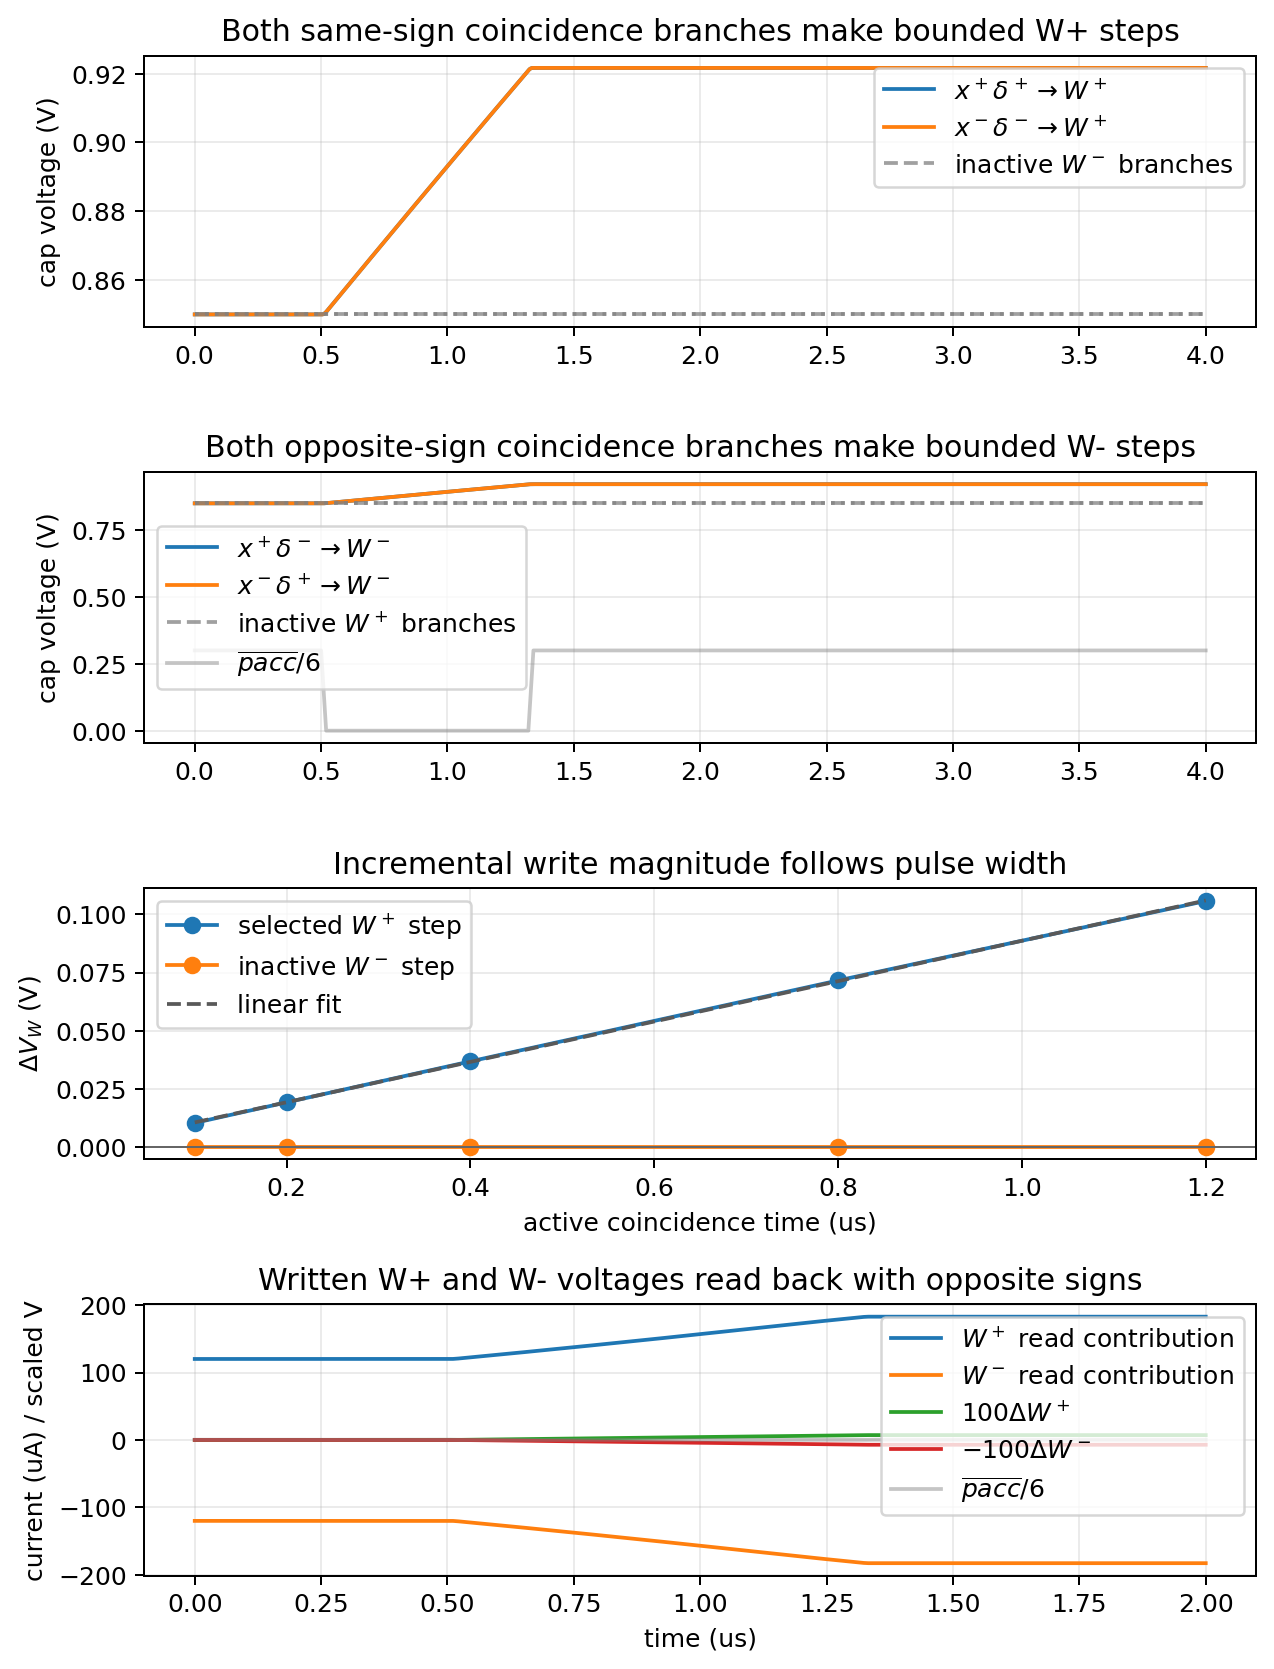
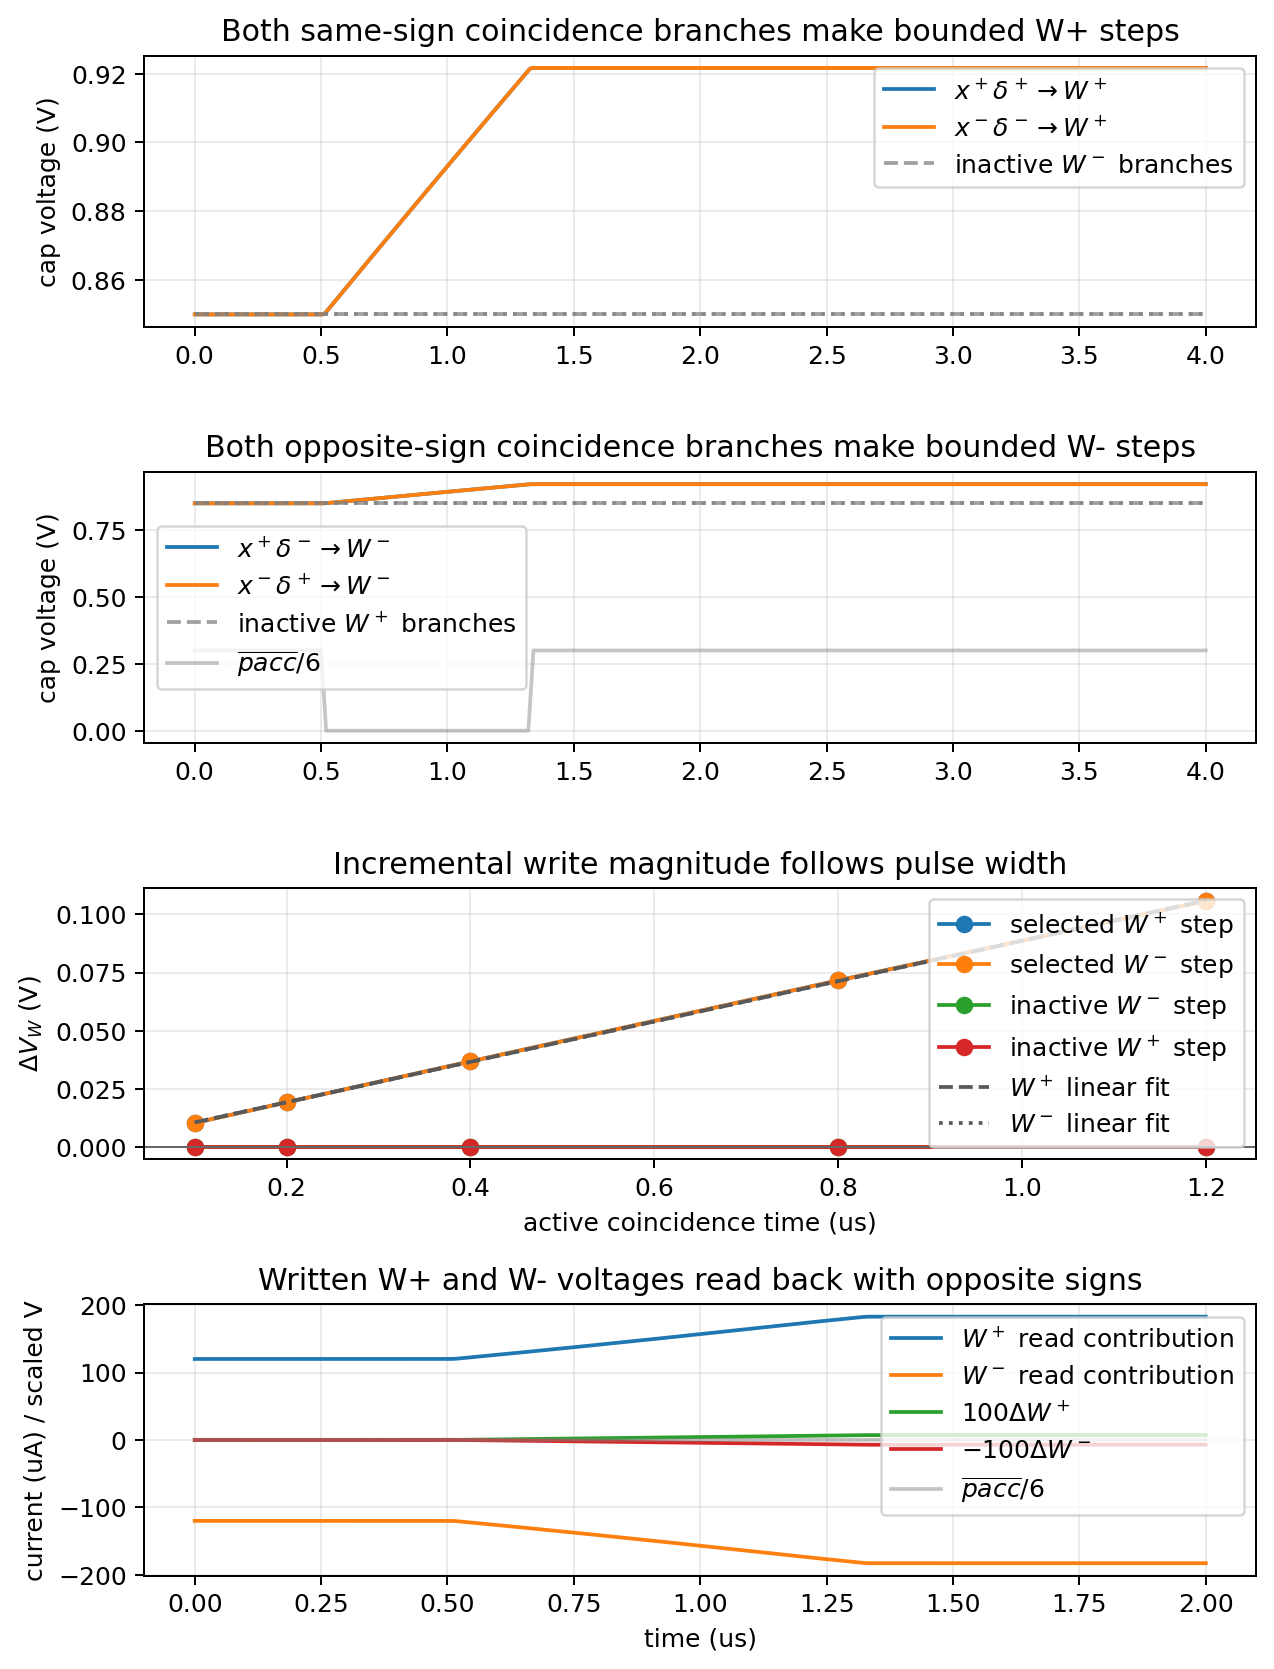
Sweep both MOS writer rails by pulse width

diff --git a/spice/run_mos_cell_characterization.py b/spice/run_mos_cell_characterization.py
@@ -627,17 +627,25 @@ quit
         sweep_devices.append(
             f"""
 VPACC{idx} paccn{idx} 0 PULSE(1.8 0 0.5u 20n 20n {width}u 5.0u)
-CWP{idx} wp{idx} 0 {{CWRITE}} IC=0.85
-CWM{idx} wm{idx} 0 {{CWRITE}} IC=0.85
-MWP{idx}A vdd paccn{idx} n1_{idx} vdd PMOS L={{LCH}} W={{WWRITE}}
-MWP{idx}B n1_{idx} lo n2_{idx} vdd PMOS L={{LCH}} W={{WWRITE}}
-MWP{idx}C n2_{idx} lo wp{idx} vdd PMOS L={{LCH}} W={{WWRITE}}
-MWM{idx}A vdd paccn{idx} n3_{idx} vdd PMOS L={{LCH}} W={{WWRITE}}
-MWM{idx}B n3_{idx} lo n4_{idx} vdd PMOS L={{LCH}} W={{WWRITE}}
-MWM{idx}C n4_{idx} hi wm{idx} vdd PMOS L={{LCH}} W={{WWRITE}}
+CWP_P{idx} wp_p{idx} 0 {{CWRITE}} IC=0.85
+CWM_P{idx} wm_p{idx} 0 {{CWRITE}} IC=0.85
+MWPP{idx}A vdd paccn{idx} n1p_{idx} vdd PMOS L={{LCH}} W={{WWRITE}}
+MWPP{idx}B n1p_{idx} lo n2p_{idx} vdd PMOS L={{LCH}} W={{WWRITE}}
+MWPP{idx}C n2p_{idx} lo wp_p{idx} vdd PMOS L={{LCH}} W={{WWRITE}}
+MWPM{idx}A vdd paccn{idx} n3p_{idx} vdd PMOS L={{LCH}} W={{WWRITE}}
+MWPM{idx}B n3p_{idx} lo n4p_{idx} vdd PMOS L={{LCH}} W={{WWRITE}}
+MWPM{idx}C n4p_{idx} hi wm_p{idx} vdd PMOS L={{LCH}} W={{WWRITE}}
+CWP_N{idx} wp_n{idx} 0 {{CWRITE}} IC=0.85
+CWM_N{idx} wm_n{idx} 0 {{CWRITE}} IC=0.85
+MWNP{idx}A vdd paccn{idx} n1n_{idx} vdd PMOS L={{LCH}} W={{WWRITE}}
+MWNP{idx}B n1n_{idx} lo n2n_{idx} vdd PMOS L={{LCH}} W={{WWRITE}}
+MWNP{idx}C n2n_{idx} hi wp_n{idx} vdd PMOS L={{LCH}} W={{WWRITE}}
+MWNM{idx}A vdd paccn{idx} n3n_{idx} vdd PMOS L={{LCH}} W={{WWRITE}}
+MWNM{idx}B n3n_{idx} lo n4n_{idx} vdd PMOS L={{LCH}} W={{WWRITE}}
+MWNM{idx}C n4n_{idx} lo wm_n{idx} vdd PMOS L={{LCH}} W={{WWRITE}}
 """
         )
-        sweep_prints.extend([f"v(wp{idx})", f"v(wm{idx})"])
+        sweep_prints.extend([f"v(wp_p{idx})", f"v(wm_p{idx})", f"v(wp_n{idx})", f"v(wm_n{idx})"])
     sweep_deck = f"""
 * Four-quadrant writer pulse-width sweep.
 {COMMON_MODELS}
@@ -729,20 +737,31 @@ quit
     require(np.max(np.abs(opp_inactive)) < 1e-3, "opposite-sign branches should leave W+ quiet")
 
     sweep_data = run_ngspice(sweep_deck, "mos_writer_width")
-    _, sweep_cols = load_wrdata(sweep_data, 2 * len(widths_us))
-    selected_delta = np.array([sweep_cols[2 * idx][-1] - sweep_cols[2 * idx][0] for idx in range(len(widths_us))])
-    inactive_delta = np.array([sweep_cols[2 * idx + 1][-1] - sweep_cols[2 * idx + 1][0] for idx in range(len(widths_us))])
-    require(np.all(np.diff(selected_delta) > 0.0), "writer charge should increase with active pulse width")
-    require(np.max(np.abs(inactive_delta)) < 1e-3, "inactive writer branch should stay quiet in width sweep")
+    _, sweep_cols = load_wrdata(sweep_data, 4 * len(widths_us))
+    selected_wp_delta = np.array([sweep_cols[4 * idx][-1] - sweep_cols[4 * idx][0] for idx in range(len(widths_us))])
+    inactive_wm_delta = np.array([sweep_cols[4 * idx + 1][-1] - sweep_cols[4 * idx + 1][0] for idx in range(len(widths_us))])
+    inactive_wp_delta = np.array([sweep_cols[4 * idx + 2][-1] - sweep_cols[4 * idx + 2][0] for idx in range(len(widths_us))])
+    selected_wm_delta = np.array([sweep_cols[4 * idx + 3][-1] - sweep_cols[4 * idx + 3][0] for idx in range(len(widths_us))])
+    require(np.all(np.diff(selected_wp_delta) > 0.0), "W+ writer charge should increase with active pulse width")
+    require(np.all(np.diff(selected_wm_delta) > 0.0), "W- writer charge should increase with active pulse width")
+    require(np.max(np.abs(inactive_wm_delta)) < 1e-3, "inactive W- branch should stay quiet in W+ width sweep")
+    require(np.max(np.abs(inactive_wp_delta)) < 1e-3, "inactive W+ branch should stay quiet in W- width sweep")
     # This is an incremental writer, not a rail-to-rail latch.  Over this small
     # voltage excursion the selected charge should be close to proportional to
     # coincidence time.
-    fit = np.polyfit(np.array(widths_us), selected_delta, 1)
-    predicted = np.polyval(fit, widths_us)
-    residual = selected_delta - predicted
-    ss_res = float(np.sum(residual**2))
-    ss_tot = float(np.sum((selected_delta - np.mean(selected_delta)) ** 2))
-    require(1.0 - ss_res / ss_tot > 0.98, "writer pulse-width response should be near-linear")
+    fit_wp = np.polyfit(np.array(widths_us), selected_wp_delta, 1)
+    predicted_wp = np.polyval(fit_wp, widths_us)
+    fit_wm = np.polyfit(np.array(widths_us), selected_wm_delta, 1)
+    predicted_wm = np.polyval(fit_wm, widths_us)
+
+    def r_squared(measured: np.ndarray, predicted: np.ndarray) -> float:
+        residual = measured - predicted
+        ss_res = float(np.sum(residual**2))
+        ss_tot = float(np.sum((measured - np.mean(measured)) ** 2))
+        return 1.0 - ss_res / ss_tot
+
+    require(r_squared(selected_wp_delta, predicted_wp) > 0.98, "W+ writer pulse-width response should be near-linear")
+    require(r_squared(selected_wm_delta, predicted_wm) > 0.98, "W- writer pulse-width response should be near-linear")
 
     readback_data = run_ngspice(readback_deck, "mos_writer_readback")
     rt, read_cols = load_wrdata(readback_data, 9)
@@ -779,9 +798,12 @@ quit
     axes[1].set_title("Both opposite-sign coincidence branches make bounded W- steps")
     axes[1].grid(True, alpha=0.25)
     axes[1].legend()
-    axes[2].plot(widths_us, selected_delta, "o-", label="selected $W^+$ step")
-    axes[2].plot(widths_us, inactive_delta, "o-", label="inactive $W^-$ step")
-    axes[2].plot(widths_us, predicted, "--", color="0.35", label="linear fit")
+    axes[2].plot(widths_us, selected_wp_delta, "o-", label="selected $W^+$ step")
+    axes[2].plot(widths_us, selected_wm_delta, "o-", label="selected $W^-$ step")
+    axes[2].plot(widths_us, inactive_wm_delta, "o-", label="inactive $W^-$ step")
+    axes[2].plot(widths_us, inactive_wp_delta, "o-", label="inactive $W^+$ step")
+    axes[2].plot(widths_us, predicted_wp, "--", color="0.35", label="$W^+$ linear fit")
+    axes[2].plot(widths_us, predicted_wm, ":", color="0.35", label="$W^-$ linear fit")
     axes[2].axhline(0, color="0.4", linewidth=0.8)
     axes[2].set_xlabel("active coincidence time (us)")
     axes[2].set_ylabel("$\\Delta V_W$ (V)")

diff --git a/docs/spicenn_progress_note.tex b/docs/spicenn_progress_note.tex
@@ -653,11 +653,11 @@ must satisfy before it can replace the current behavioral prototype.
   used by the synapse tail-gate read path.  The selectivity panels exercise all
   four product branches: \(x^+\delta^+\) and \(x^-\delta^-\) step only
   \(W^+\), while \(x^+\delta^-\) and \(x^-\delta^+\) step only \(W^-\).  The
-  pulse-width sweep verifies near-linear selected write magnitude while the
-  inactive branch stays quiet.  The readback panel then uses the written \(W^+\)
-  and \(W^-\) voltages as positive- and negative-weight synapse tail gates,
-  verifying opposite signed contribution changes from the stored capacitor
-  rails.}
+  pulse-width sweep verifies near-linear selected write magnitude for both
+  \(W^+\) and \(W^-\) while the opposite inactive rail stays quiet.  The
+  readback panel then uses the written \(W^+\) and \(W^-\) voltages as positive-
+  and negative-weight synapse tail gates, verifying opposite signed contribution
+  changes from the stored capacitor rails.}
   \label{fig:mos-writer-ngspice}
 \end{figure}
 

diff --git a/engineering_log.md b/engineering_log.md
@@ -2,6 +2,7 @@
 
 ## 2026-05-24
 
+- Extended the MOS writer pulse-width sweep to cover both selected weight rails. The width deck now includes a same-sign branch that charges \(W^+\), an opposite-sign branch that charges \(W^-\), and both inactive opposite rails for every pulse width; assertions require monotone near-linear response on both selected rails and quiet inactive rails.
 - Added a shared-summing cancellation check to the signed MOS synapse characterization. The transient deck now connects equal positive- and negative-weight gate-swapped copies to the same \(z^+/z^-\) capacitors and asserts that the differential stored preactivation stays near zero, while the individual \(W^+\) and \(W^-\) copies still move separate capacitors in opposite directions.
 - Extended the reset/precharge characterization beyond the preactivation pair. The reset deck now also instantiates deliberately mismatched activation and hidden-error capacitor pairs on the same complementary transmission-gate reset rails, and asserts that the first reset clears all three state roles while a later synapse write perturbs only the preactivation pair before the second reset clears it again.
 - Strengthened the four-quadrant writer characterization so the selectivity deck now exercises all product terms. The previous writer plot proved the \(x^+\delta^+\to W^+\) and \(x^+\delta^-\to W^-\) branches, but the schematic also has \(x^-\delta^-\to W^+\) and \(x^-\delta^+\to W^-\). The new ngspice deck instantiates all four branch cases, asserts both same-sign branches charge only \(W^+\), and asserts both opposite-sign branches charge only \(W^-\).
